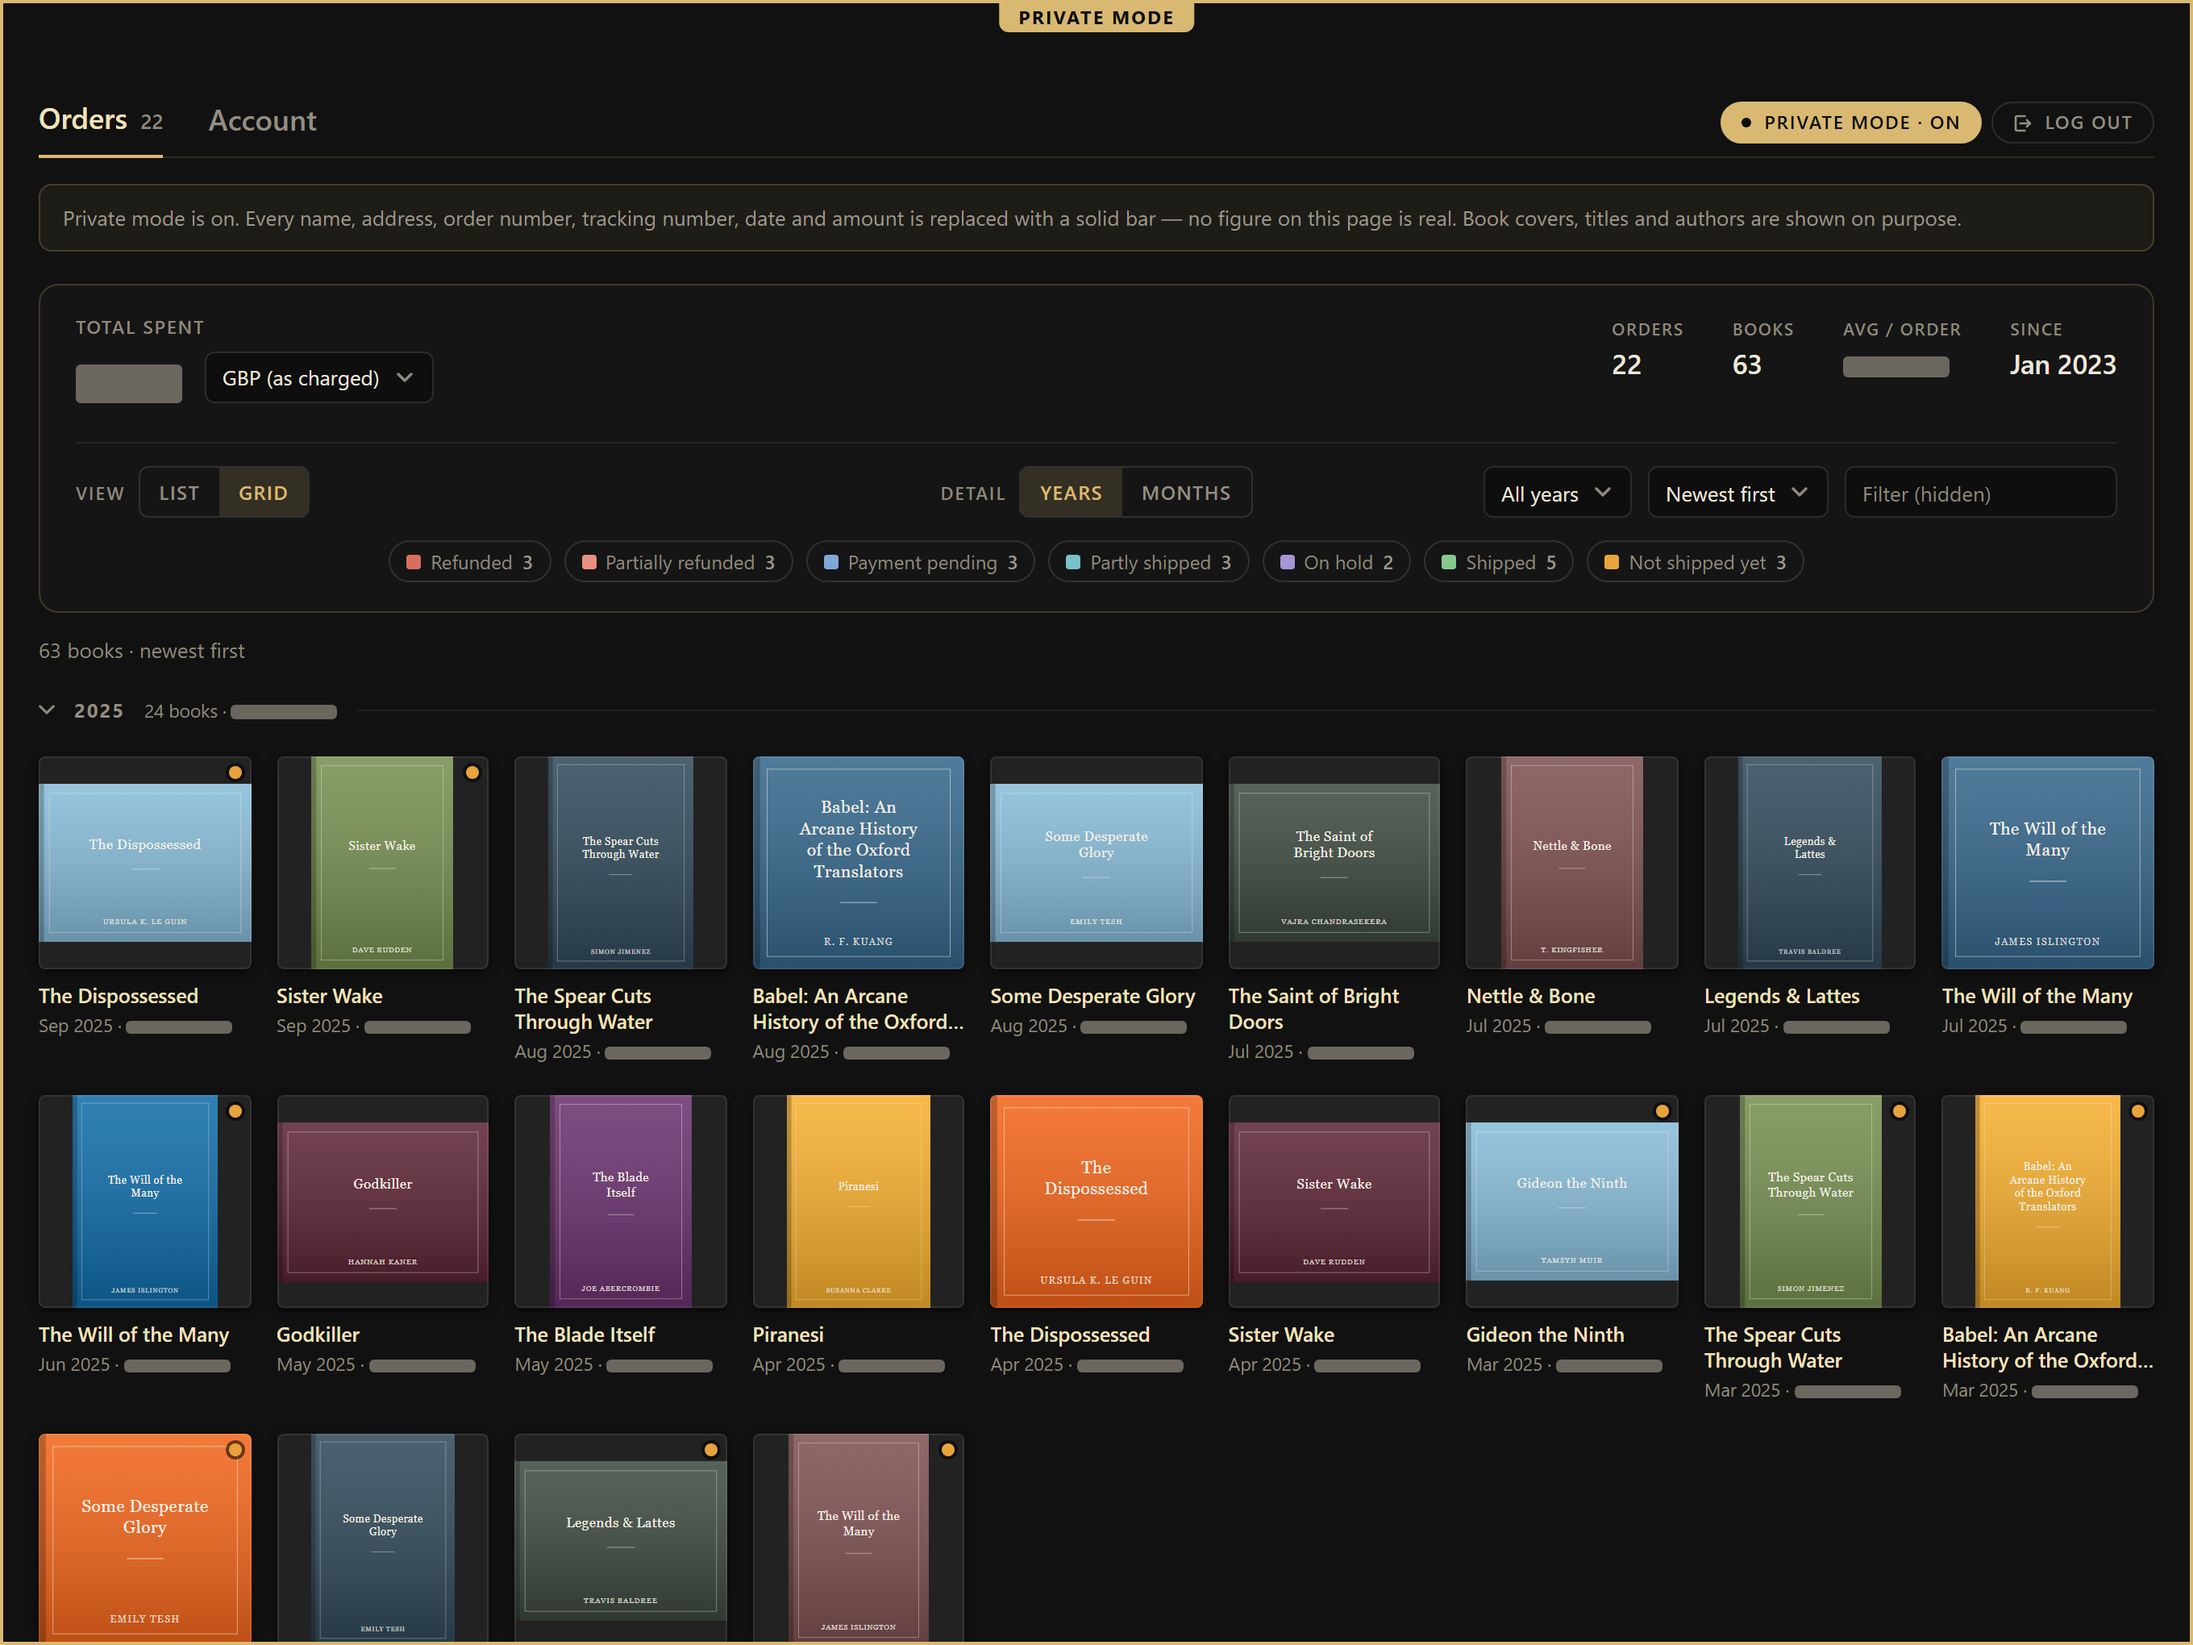
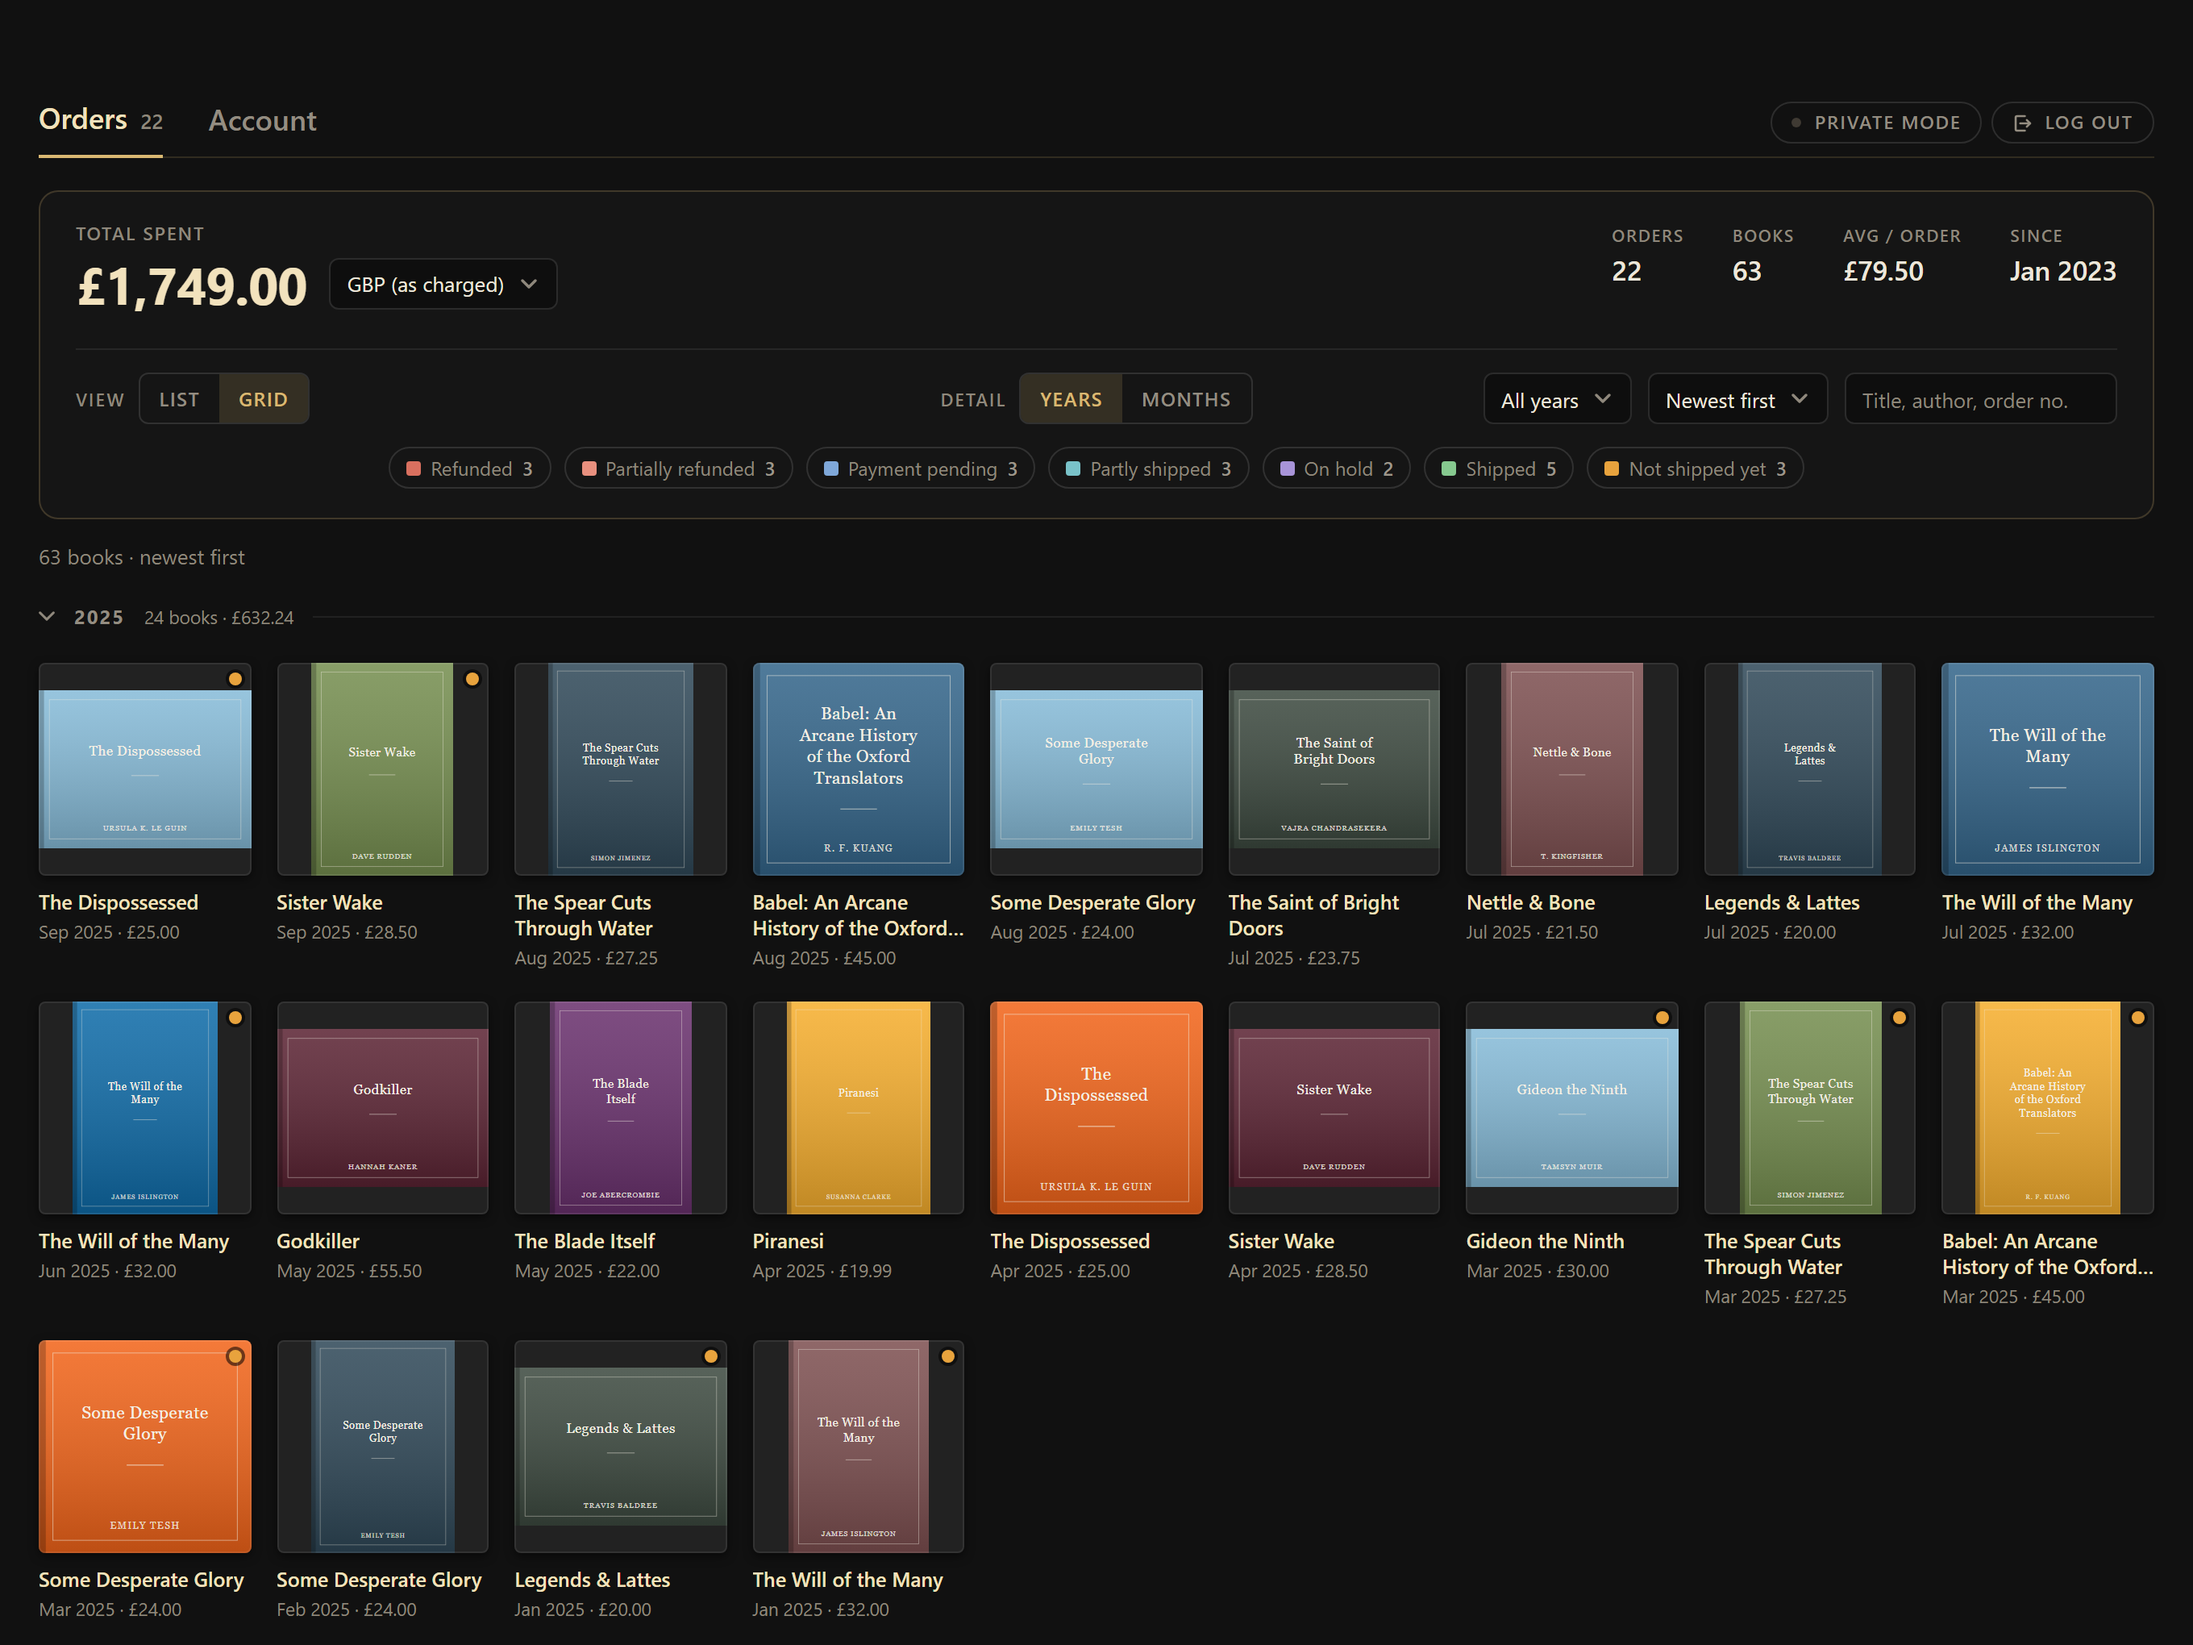
Show the figures in the screenshots instead of redacting them
The first set was shot entirely in private mode, which hid exactly what the summary
card exists to show: the total, the average, every price and date were grey bars. The
data behind them is a synthetic fixture, so there was never anything to protect — the
redaction cost the showcase its content and bought nothing.

The list, grid and mobile shots now show real figures. Private mode keeps a shot of
its own, where it reads as the feature it is rather than as the house style, and it
pairs with the list shot directly above for a before-and-after.

The README says up front that the orders and cover art are invented, so nobody reads
the totals as somebody's real spending.

Checked: 22 order numbers and 22 amounts present in the first three, 0 of each in the
private-mode shot.

diff --git a/README.md b/README.md
@@ -32,22 +32,30 @@ address controls on the Account tab, and only when you click them.
 
 ## Screenshots
 
-Every shot below has **private mode** switched on — that is why the names, order
-numbers, dates and amounts are grey bars, while covers, titles and authors stay
-readable. The orders shown are a test fixture, not a real account.
+Everything below runs against a test fixture — the orders, totals and cover art are
+invented, not anyone's account.
 
 ### One continuous list
 
 Every page of the history merged into a single view, folded by year and month, with
-each order's books, shipping and tracking underneath it.
+each order's books, shipping and tracking underneath it, and the totals recomputed as
+you filter.
 
-![The order history as one merged list, grouped by year and month, showing book covers, titles, authors and shipping status, with order numbers, dates and prices redacted into grey bars by private mode.](docs/screenshots/list.png)
+![The order history as one merged list, grouped by year and month. A summary card shows total spent, order count, book count and average per order. Each order expands to its books with covers, authors, prices, shipping status and tracking links.](docs/screenshots/list.png)
 
 ### Every book, as a wall of covers
 
-The same filters, drawn as a grid instead of a list.
+The same filters and totals, drawn as a grid instead of a list.
 
-![A grid of book covers grouped by year, each tile captioned with its title and month, with prices redacted into grey bars by private mode.](docs/screenshots/grid.png)
+![A grid of book covers grouped by year, each tile captioned with its title, month and price.](docs/screenshots/grid.png)
+
+### Private mode
+
+One click replaces every name, address, order number, tracking number, date and amount
+with a solid bar, so the page is safe to put on a shared screen. Covers, titles and
+authors stay — they are the part worth showing.
+
+![The same list with private mode on: order numbers, dates and every amount are replaced by grey bars, while book covers, titles and authors remain readable.](docs/screenshots/private-mode.png)
 
 ### On a phone
 
